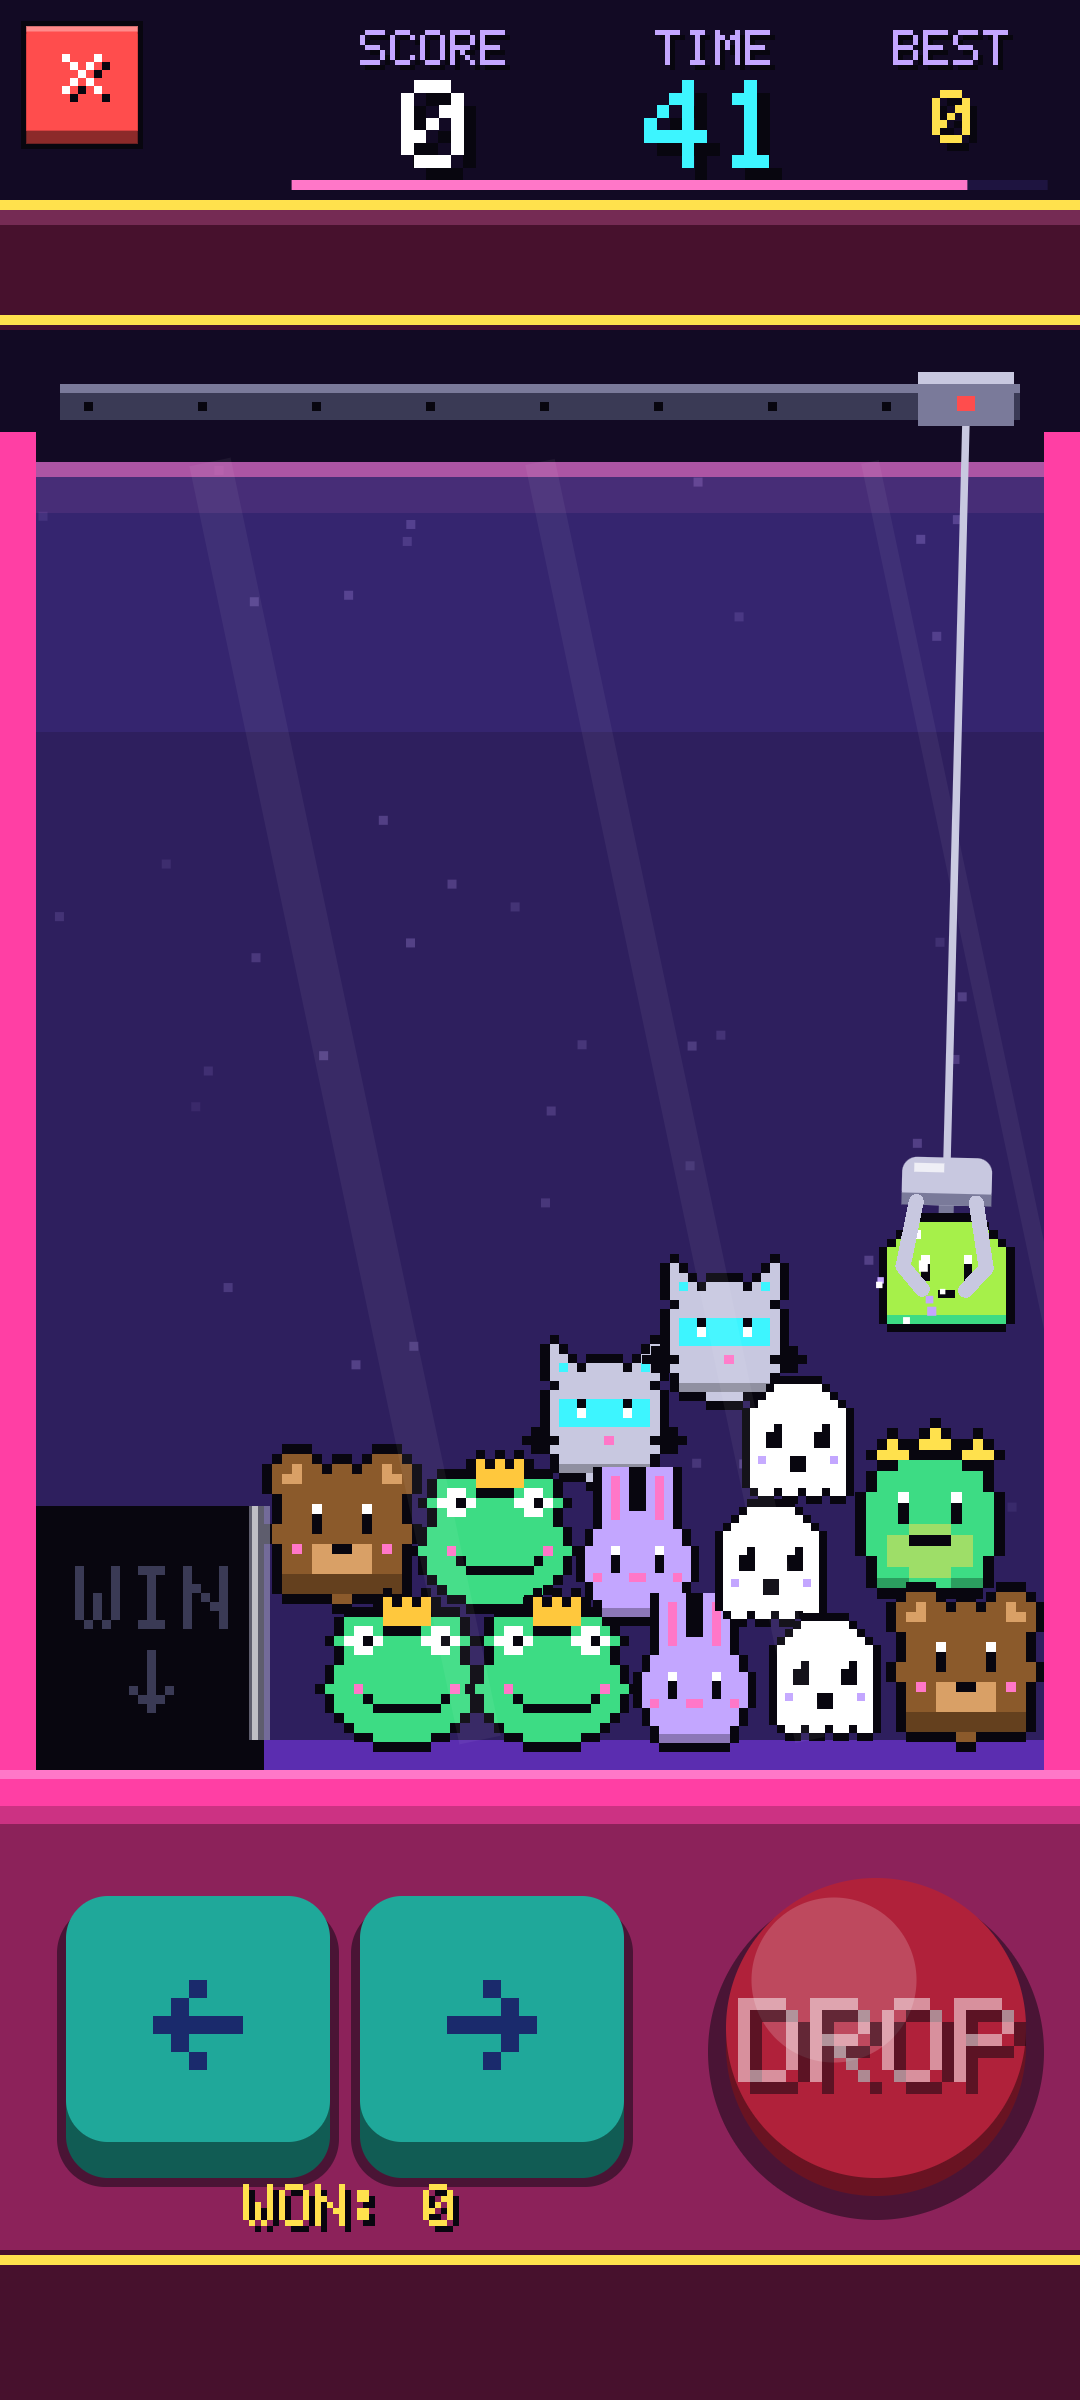
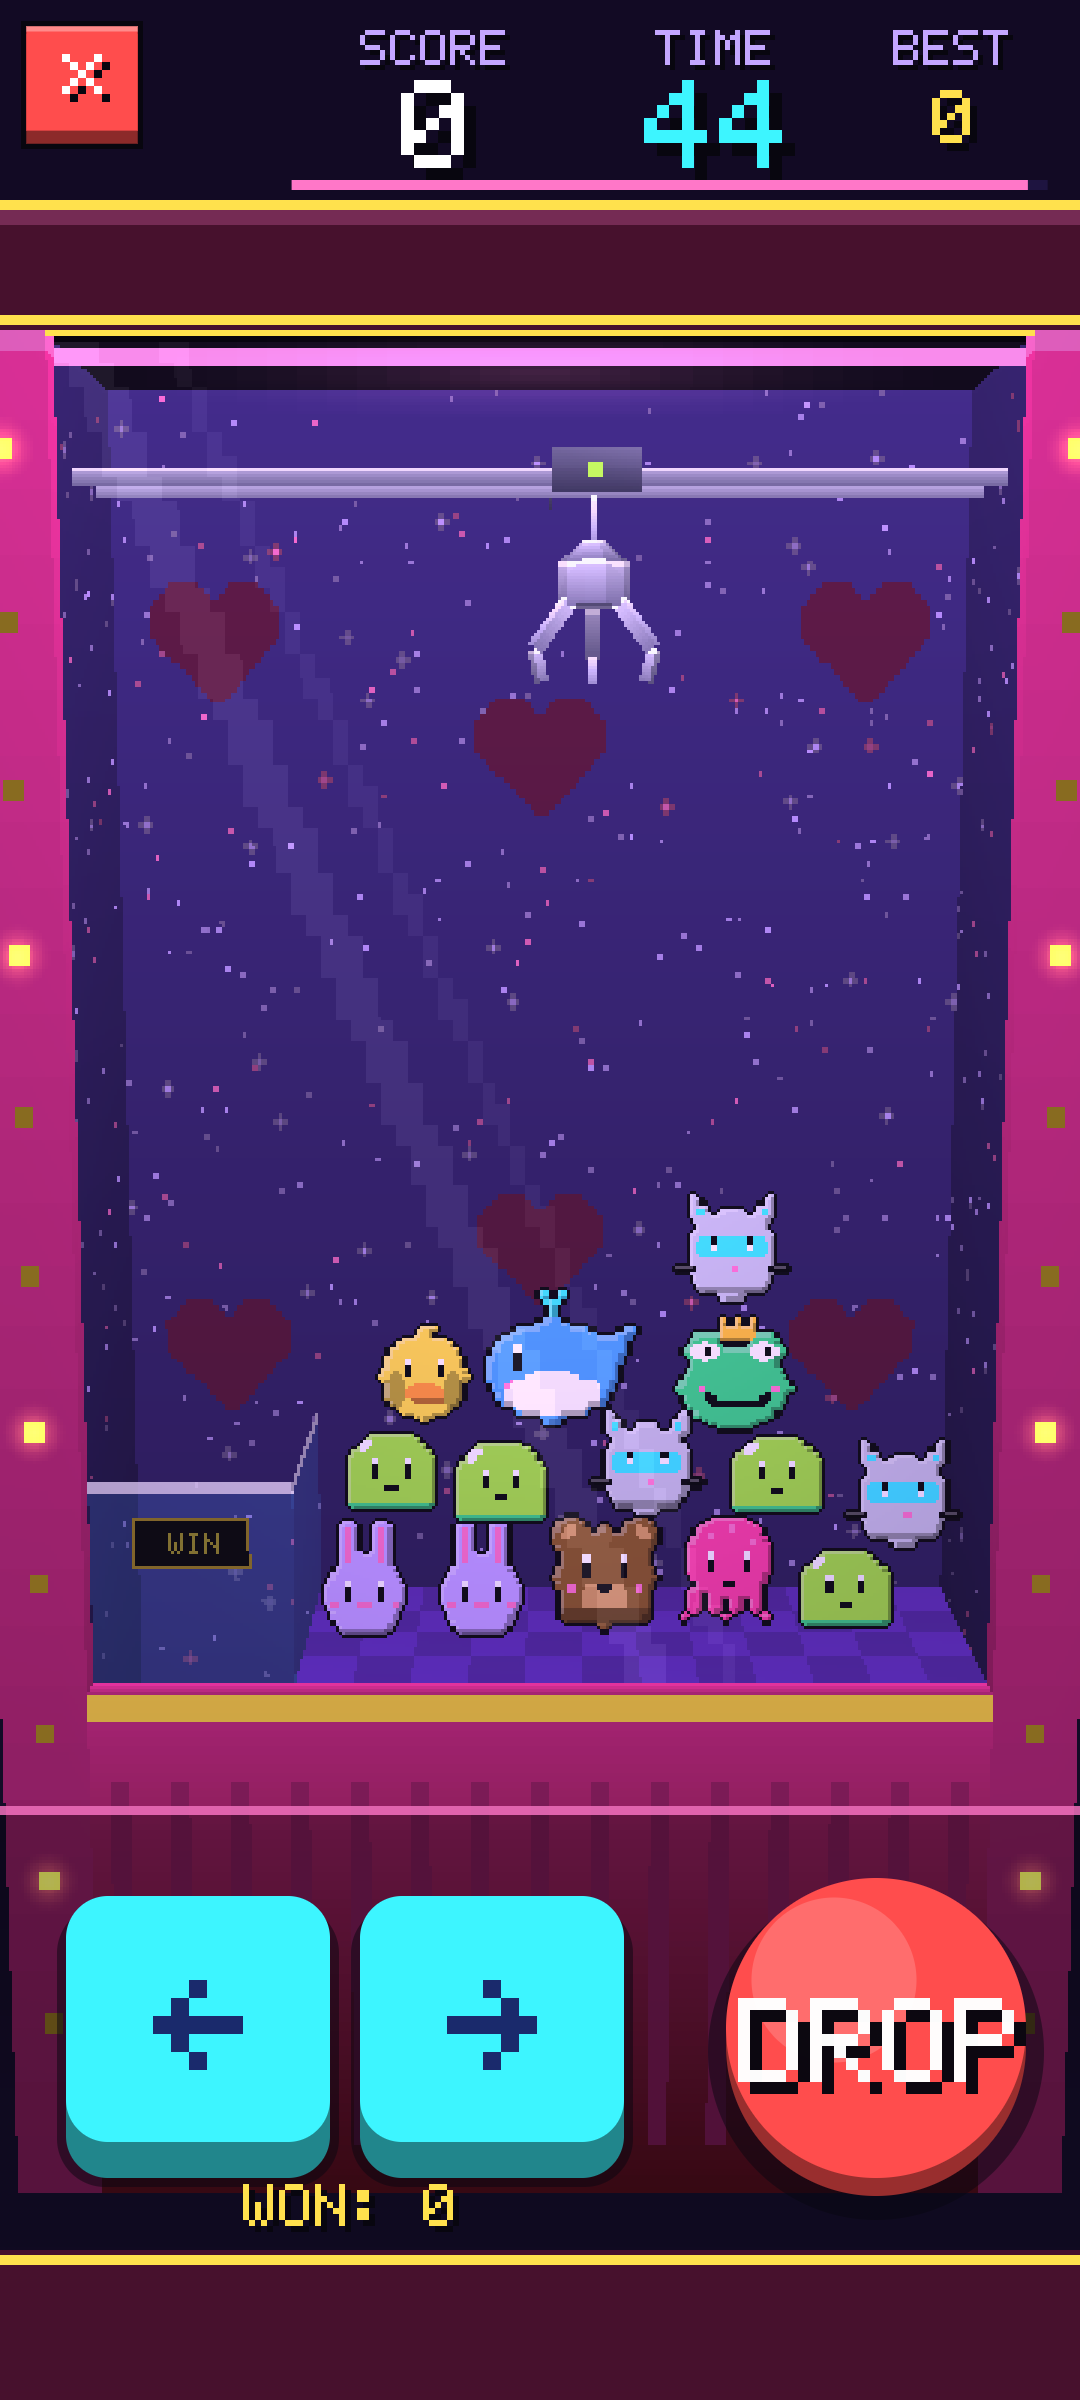
Update the README and screenshots for the 3D arcade

diff --git a/README.md b/README.md
@@ -1,34 +1,45 @@
 # Pocket Arcade
 
-A pixel-art arcade hall for Android that you walk around in. Stroll a neon-carpeted hall with a floating joystick, step up to a glowing cabinet, spend a token, and the camera zooms into the machine. Play a 40–50 second round, watch your tickets print out of the slot, then trade them at the prize counter for hats, outfits and decorations that show up in the hall.
+A 3D pixel-art arcade hall for Android that you walk around in. Stroll a neon-carpeted hall with a floating joystick, step up to a glowing cabinet, spend a token, and the camera dives into the machine's screen. Play a 40–60 second round, watch your tickets print out of the slot, then trade them at the prize counter for hats, outfits and decorations that show up in the hall.
 
-Everything is drawn in code on a Compose `Canvas`: sprites, tiles, fonts, particles, even the launcher icon. Every sound is synthesized at runtime with `AudioTrack`. The app ships no image or audio files and uses no third-party libraries beyond AndroidX/Compose.
+Everything is drawn in code. A small software 3D renderer draws the hall and every machine into a low-resolution framebuffer that is scaled up pixel-sharp, so the scenes are properly lit and in perspective but still look like pixel art. Every texture, sprite, font and sound is generated at runtime, with sounds synthesized through `AudioTrack`. The app ships no image or audio files and uses no third-party libraries beyond AndroidX/Compose.
 
 <p>
-  <img src="docs/screenshots/title.png" width="180" alt="Title screen">
-  <img src="docs/screenshots/hall.png" width="180" alt="The arcade hall">
-  <img src="docs/screenshots/prize-counter.png" width="180" alt="Prize counter">
-  <img src="docs/screenshots/claw.png" width="180" alt="Claw machine">
-  <img src="docs/screenshots/hoops.png" width="180" alt="Hoop shot">
+  <img src="docs/screenshots/title.png" width="160" alt="Title screen">
+  <img src="docs/screenshots/hall.png" width="160" alt="The arcade hall">
+  <img src="docs/screenshots/prize-counter.png" width="160" alt="Prize counter">
+  <img src="docs/screenshots/claw.png" width="160" alt="Claw machine">
+  <img src="docs/screenshots/skeeball.png" width="160" alt="Skee-ball">
+</p>
+<p>
+  <img src="docs/screenshots/whack.png" width="160" alt="Whack-a-mole">
+  <img src="docs/screenshots/pusher.png" width="160" alt="Coin pusher">
+  <img src="docs/screenshots/hoops.png" width="160" alt="Hoop shot">
+  <img src="docs/screenshots/airhockey.png" width="160" alt="Air hockey">
+  <img src="docs/screenshots/racer.png" width="160" alt="Turbo racer">
+  <img src="docs/screenshots/stacker.png" width="160" alt="Stacker">
 </p>
 
 ## Features
 
 **The hall**
-- Top-down 3/4 view of an arcade about 2–2.5 screens tall. The camera follows you smoothly with a little look-ahead.
-- A 4-direction walk cycle for your kid, driven by a floating virtual joystick that appears wherever your thumb lands.
-- Collision against walls, cabinets and furniture, with sliding along edges. Props and characters are depth-sorted so you can walk behind things.
-- Checkered aisle, retro neon carpet, glowing cabinets with animated attract-mode screens, chasing marquee bulbs, a flickering neon sign and kids wandering between machines (BFS pathfinding).
-- Walk up to a machine and a **▶ PLAY (1 token)** prompt floats up. Tap it to zoom and fade into the game. Exiting puts you back exactly where you stood.
-- A token machine by the entrance, and a prize counter with a clerk at the back of the hall.
+- A lit 3D room seen from above and behind you, with a smooth follow camera. It grows a row of cabinets for every two machines.
+- Modelled cabinets in four shapes (upright, wide glass-front, long alley and low table), each with a live attract-mode screen, a marquee with chasing bulbs, a neon glow and its own coloured light.
+- A 4-direction walk cycle for your kid (HD sprites with rim lighting), driven by a floating virtual joystick that appears wherever your thumb lands.
+- Collision against walls, cabinets and furniture, with sliding along edges. Kids wander between machines using path finding.
+- Walk up to a machine and a **▶ PLAY (1 token)** prompt floats up. Tap it and the camera flies into the cabinet's screen. Exiting flies you back out to exactly where you stood.
+- A token machine by the entrance, and a prize counter with a clerk and shelves of plushies at the back of the hall.
 - An ambient arcade soundscape: mains hum, crowd murmur and distant machine bleeps.
 
-**Five machines**, each a full game that pays out tickets:
-1. **Claw machine**: move the gantry, drop the claw and watch it swing on its cable (a real variable-length pendulum). Prizes are a physics pile. Whether a prize holds depends on the machine's grip for that grab and how centred you were, and it can slip on the way up. Now and then you get a gold **lucky claw** turn. Prizes you win go into your plush collection (11 to find, including a rare golden cat).
-2. **Skee-ball**: drag the ball to aim, then flick up. Flick speed sets how far it jumps and flick angle sets the line. Rings are worth 10–100, with a 200-point bonus hole in the corner. A power meter shows how hard you threw.
-3. **Whack-a-mole**: a 3×3 grid that speeds up. Golden moles are worth double, bombs cost points and stun you, and hits in a row build a combo.
-4. **Coin pusher**: tap to drop coins onto a packed deck while the shelf sweeps back and forth. Coins spill over the front lip for points and fall into the side gutters for nothing. Gems, big coins, ticket bundles and coin-shower stars are mixed in, and five spills in quick succession trigger an avalanche bonus.
-5. **Hoop shot**: flick to shoot in pseudo-3D, with rim bounces, backboard banks and a swaying net. Makes in a row multiply your points up to ×5, and the hoop starts moving in the second half.
+**Eight machines**, each a full 3D game that pays out tickets:
+1. **Claw machine**: a glass box with a gantry and a claw that swings on its cable (a real variable-length pendulum), with hinged prongs that open and close. Prizes are a physics pile. Whether a prize holds depends on the machine's grip for that grab and how centred you were, and it can slip on the way up. Now and then you get a gold **lucky claw** turn. Prizes you win go into your plush collection (11 to find, including a rare golden cat).
+2. **Skee-ball**: a player's-eye alley with a tilted target board and raised ring walls. Drag the ball to aim, then flick up. Flick speed sets how far it jumps. Rings are worth 10–100, with a 200-point bonus hole in the corner.
+3. **Whack-a-mole**: a table with real holes. Moles, golden moles and bombs rise out of them and you bonk them with a 3D mallet. It speeds up as the round goes on, and hits in a row build a combo.
+4. **Coin pusher**: tap to drop coins onto a packed deck while the shelf sweeps back and forth. Coins that spill over the lip land in the win tray. Gems, big coins, ticket bundles and coin-shower stars are mixed in, and five spills in quick succession trigger an avalanche bonus.
+5. **Hoop shot**: flick to shoot at a real 3D rim, net and backboard, with rim bounces and banks. Makes in a row multiply your points up to ×5, and the hoop starts moving in the second half.
+6. **Air hockey** (new): drag your mallet and smash the puck past the CPU on an air table with rounded corners. The CPU speeds up as you pull ahead. Goals in a row score more, and the first to 7 wins.
+7. **Turbo racer** (new): a synthwave road race into the sunset. Drag to steer through curves and over hills, dodge traffic, skim past cars for bonus points and grab tokens off the road.
+8. **Stacker** (new): tap to drop each sliding slab onto the tower. Any overhang is cut off and tumbles away. Line one up perfectly to keep it whole and build a combo. You get three misses.
 
 **Game feel**
 - Screen shake, particles, squash and stretch, popping score text and a 3-2-1-GO countdown.
@@ -41,6 +52,18 @@ Everything is drawn in code on a Compose `Canvas`: sprites, tiles, fonts, partic
 
 - You start with **20 tokens** and get **10 free every day**.
 - The token machine trades **40 tickets for 1 token**. If you are completely out, you can grab a free spare token every 3 minutes, so tokens never run out for good.
+
+## The 3D engine
+
+`engine/r3d` is a small software rasterizer written for this app:
+
+- Textured polygons with perspective-correct UVs, a 1/z depth buffer and near-plane clipping.
+- Per-vertex lighting from ambient, directional and coloured point lights, plus distance fog.
+- Opaque (alpha-tested), alpha-blended and additive polygons, used for glass, glows, neon and sparks.
+- Models built from boxes, cylinders, discs and quads, which can be moved and rotated as jointed parts (the claw's prongs, the mallet's swing).
+- A fast floor caster for the hall floor, and camera-facing sprites, ribbons and flat decals.
+- `Stage3D` gives each game a 3D view that maps touches onto world planes and world points back to the screen.
+- Frames that take too long drop the resolution a notch on their own, so slower phones stay smooth.
 
 ## Install the APK on your phone
 
@@ -60,7 +83,15 @@ You need JDK 17 or newer and the Android SDK with platform 36.
 ./gradlew assembleDebug
 ```
 
-The APK lands in `app/build/outputs/apk/debug/app-debug.apk`. Install it with `adb install -r app/build/outputs/apk/debug/app-debug.apk`, or open the project in Android Studio and press Run.
+The APK lands in `app/build/outputs/apk/debug/app-debug.apk`. Install it with `adb install -r app/build/outputs/apk/debug/app-debug.apk`, or open the project in Android Studio and press Run. The debug build is compiled non-debuggable, because the software renderer needs ART's optimising compiler to hit 60 fps.
+
+To jump straight into a machine (it still costs a token), pass its id:
+
+```bash
+adb shell am start -n com.pocketarcade/.MainActivity --es play racer
+```
+
+The ids are `claw`, `whack`, `skeeball`, `hoops`, `pusher`, `airhockey`, `racer` and `stacker`. To log frame times, run `adb shell setprop log.tag.PocketArcade3D DEBUG` and restart the app.
 
 The headless payout simulation plays every machine with bots of different skill and prints average tickets per round:
 
@@ -72,23 +103,33 @@ The headless payout simulation plays every machine with bots of different skill 
 
 Write one class and register it in one place. The hall gives it a cabinet, a play mat, a prompt, a high-score table and an attract screen automatically, and grows a new row when it needs room.
 
-1. Create `app/src/main/java/com/pocketarcade/games/<name>/<Name>Game.kt` and extend `BaseMiniGame`, which implements the `MiniGame` interface and provides particles, screen shake, popups, a score and a round clock:
+1. Create `app/src/main/java/com/pocketarcade/games/<name>/<Name>Game.kt` and extend `BaseMiniGame`, which implements the `MiniGame` interface and provides particles, screen shake, popups, a score and a round clock. Draw with a `Stage3D`, or straight onto the Compose `DrawScope` for a flat game:
 
 ```kotlin
-class AirHockeyGame : BaseMiniGame() {
-    override val id = "airhockey"              // save key for the high score: never change it
-    override val title = "AIR HOCKEY"          // intro card and results
-    override val marquee = "HOCKEY"            // up to 6 characters, printed on the cabinet
-    override val instructions = listOf("DRAG YOUR PADDLE", "SCORE ON THE ROBOT")
-    override val look = CabinetLook(body = Pal.SKY, trim = Pal.WHITE, glow = Pal.CYAN, shape = CabinetShape.WIDE)
+class BowlingGame : BaseMiniGame() {
+    override val id = "bowling"                 // save key for the high score: never change it
+    override val title = "BOWLING"              // intro card and results
+    override val marquee = "BOWL"               // up to 6 characters, printed on the cabinet
+    override val instructions = listOf("FLICK THE BALL", "KNOCK DOWN THE PINS")
+    override val look = CabinetLook(body = Pal.TEAL, trim = Pal.WHITE, glow = Pal.CYAN, shape = CabinetShape.LANE)
     override val roundSeconds = 45f
+
+    private val stage = Stage3D(GAME_W.toInt(), GAME_H.toInt(), "bowling").apply {
+        look(180f, 200f, 700f, 180f, 0f, 100f, fovDeg = 45f)   // camera eye, target, field of view
+    }
 
     override fun reset() { /* set up a fresh round */ }
     override fun step(dt: Float) { /* fixed 1/120 s simulation step; call addScore(...) */ }
-    override fun render(scope: DrawScope) { /* draw in a 360 x 640 field */ }
-    override fun onTouch(type: TouchType, id: Long, x: Float, y: Float, timeMs: Long) { /* field units */ }
+    override fun render(scope: DrawScope) {
+        val r = stage.begin()
+        // r.quad(...), r.sprite(...), model.draw(r, xf = ...) and so on
+        stage.present(scope)
+    }
+    override fun onTouch(type: TouchType, id: Long, x: Float, y: Float, timeMs: Long) {
+        // x, y are field units (360 x 640); stage.touchToPlane(x, y, 0f, out) finds the spot in the world
+    }
     override fun ticketsFor(score: Int) = 1 + score / 20
-    override fun drawAttract(p: PixelPainter, w: Int, h: Int, time: Float) { /* tiny cabinet screen */ }
+    override fun drawAttract(p: Painter, w: Int, h: Int, time: Float) { /* tiny cabinet screen */ }
 }
 ```
 
@@ -96,8 +137,9 @@ class AirHockeyGame : BaseMiniGame() {
 
 ```kotlin
 fun createAll(): List<MiniGame> = listOf(
-    ClawMachineGame(), WhackAMoleGame(), SkeeBallGame(), HoopsGame(), CoinPusherGame(),
-    AirHockeyGame(),
+    ClawMachineGame(), WhackAMoleGame(), SkeeBallGame(), HoopsGame(),
+    CoinPusherGame(), AirHockeyGame(), RacerGame(), StackerGame(),
+    BowlingGame(),
 )
 ```
 
@@ -107,15 +149,17 @@ That's all. The host takes care of the intro card, countdown, timer, pause/quit,
 
 ```
 app/src/main/java/com/pocketarcade/
-├── MainActivity.kt        single activity: immersive, portrait, audio lifecycle
-├── ArcadeApp.kt           title → hall ↔ machine flow and the zoom/fade transitions
+├── MainActivity.kt        single activity: immersive, portrait, audio lifecycle, launch shortcut
+├── ArcadeApp.kt           title → hall ↔ machine flow and the camera dive transitions
 ├── engine/                fixed-step loop, touch/flick tracking, circle physics, audio synth,
-│                          particles, shake/springs, haptics, pixel font, sprite raster, palette
-├── hub/                   hall layout, world, player, NPCs, camera, collision, joystick, sprites, renderer
+│   │                      particles, shake/springs, haptics, pixel font, sprite raster and HD upscaler
+│   └── r3d/               software 3D renderer, camera, lighting, models, textures, Stage3D
+├── hub/                   hall layout, 3D scene, cabinet models and skins, characters, camera, joystick
 ├── games/                 MiniGame interface, BaseMiniGame, GameRegistry
 │   ├── claw/  skeeball/  whackamole/  coinpusher/  hoops/
+│   └── airhockey/  racer/  stacker/
 ├── data/                  DataStore repository, save state, prize catalog
 └── ui/                    HUD, title, prize counter, token machine, profile, game host, widgets
 ```
 
-Tuning knobs for every game (difficulty and payouts) are grouped at the top of each game file in a `*Tuning` object: `ClawTuning`, `SkeeTuning`, `WhackTuning`, `PusherTuning` and `HoopsTuning`.
+Tuning knobs for every game (difficulty and payouts) are grouped at the top of each game file in a `*Tuning` object: `ClawTuning`, `SkeeTuning`, `WhackTuning`, `PusherTuning`, `HoopsTuning`, `HockeyTuning`, `RacerTuning` and `StackerTuning`.
